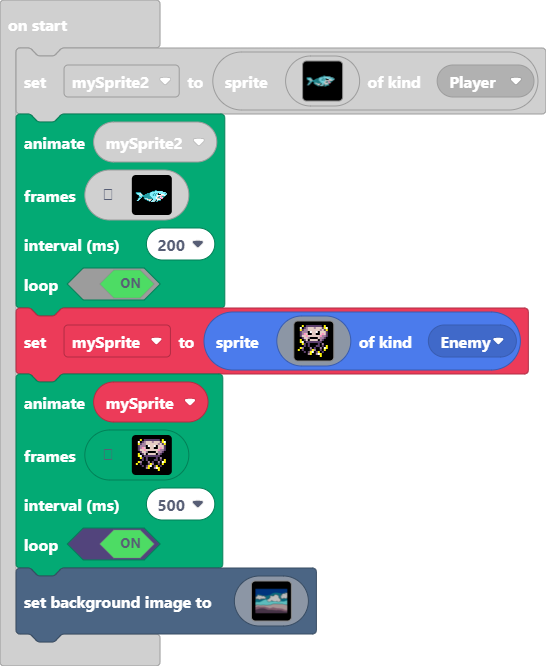
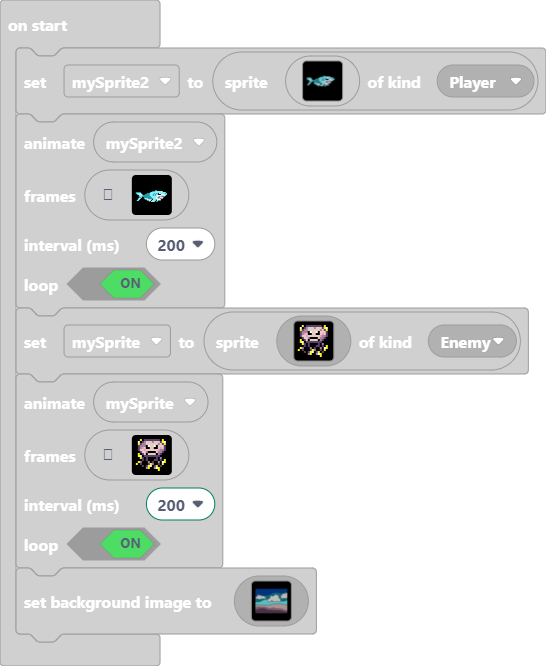
Update main.blocks, main.ts

diff --git a/main.ts b/main.ts
@@ -111,7 +111,7 @@ mySprite,
     . . . . . b 5 . . b . 1 . . . . 
     . . . . . . 5 1 . . . 5 5 . . . 
     `],
-500,
+200,
 true
 )
 scene.setBackgroundImage(img`
